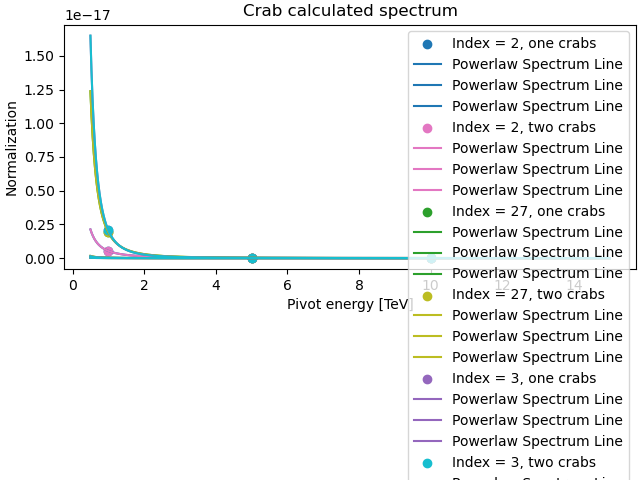
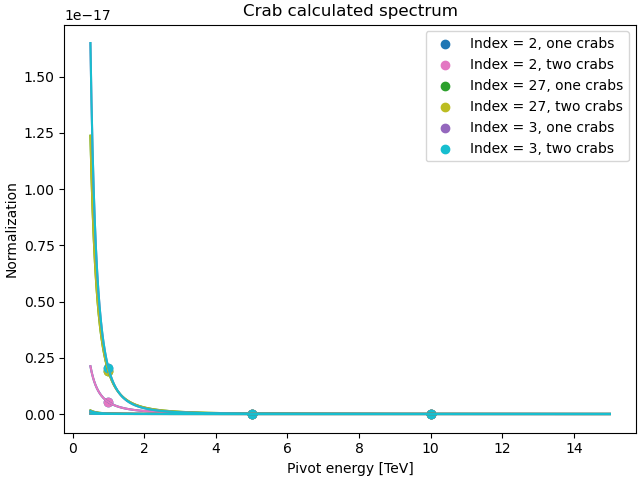
spectrum

diff --git a/crabtests/plot_spec.py b/crabtests/plot_spec.py
@@ -22,7 +22,7 @@ for j,ix in enumerate(IX):
    
         for k,pv in enumerate(pivot):
             y = indminNorm[k] * (xarr/pv) ** -(inds[j]) 
-            plt.plot(xarr,y,color=c[i,j],label=f"Powerlaw Spectrum Line")
+            plt.plot(xarr,y,color=c[i,j])
 
 
 plt.xlabel("Pivot energy [TeV]")
